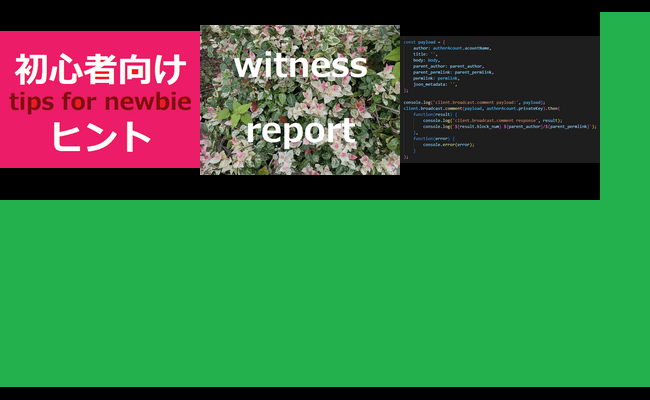
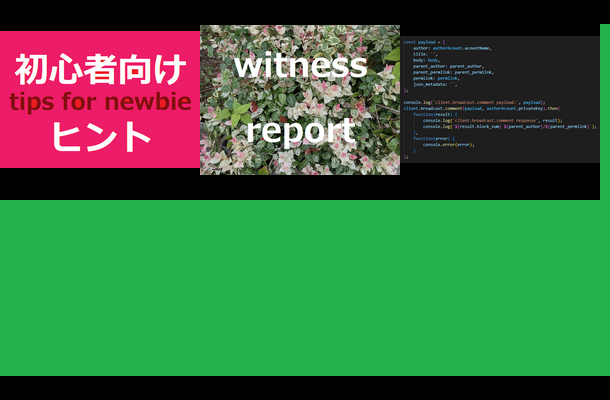
m

Changed region(s): [[0.0, 0.03, 1.0, 0.51], [0.0, 0.93, 1.0, 0.99]]

diff --git a/sharp3/app.js b/sharp3/app.js
@@ -28,35 +28,11 @@ for (let index = 0; index < urls.length; index++) {
 //--------------------
 
 
-/*
-const sharp = require("sharp");
-for (let index = 0; index < urls.length; index++) {
-
-    console.log(`./images/${index + 1}.png 開始`);
-
-    const promise = await sharp(`./images/${index + 1}.png`);
-    // 画像サイズ変更
-    await promise.resize({
-        w 200,
-        height: 200,
-        fit: 'contain'
-    })
-    // 画像出力
-    .toFile(`./${index + 1}.png` , ( err , info ) =>{
-        if( err ) { console.error(err) }
-    });
-
-    console.log(`終了`);
-}
-*/
-
-
-
 const sharp = require('sharp')
 
 //リサイズ
 await sharp(`./images/back.png`)
-.resize({width: 610, height: 400, fit: 'contain'})
+.resize({width: 600, height: 400, fit: 'contain'})
 .toFile('back.png');
 
 for (let index = 0; index < urls.length; index++) {
